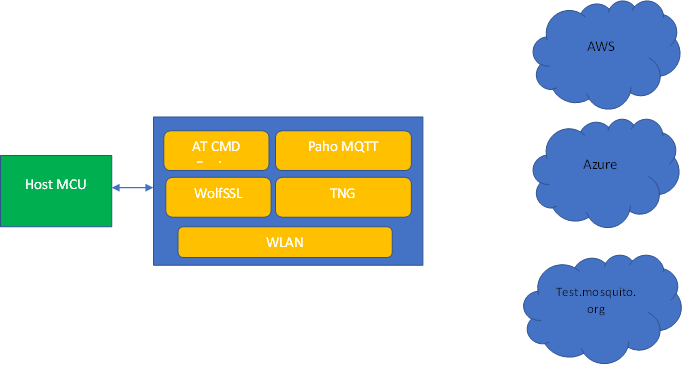
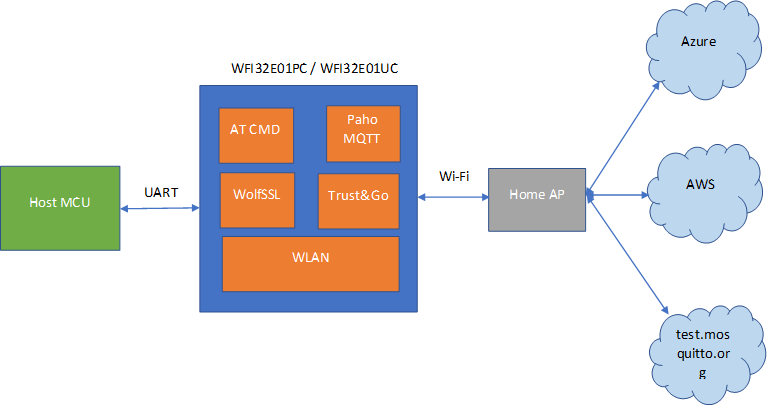
Updated the README.md

diff --git a/README.md b/README.md
@@ -1,4 +1,4 @@
-# Getting Started Guide: UART to Any Cloud Solution for Microchip PIC32 WFI32E Curiosity/ WFI32E IOT Board.
+# Getting Started Guide: UART to Any Cloud Solution for Microchip PIC32MZ-W1 Curiosity/ WFI32E IOT Board.
 
 Devices: **| PIC32MZ-W1 | WFI32 | Trust\&Go (ECC608) |**
 
@@ -14,23 +14,24 @@ For additional Microchip repos, see: https://github.com/Microchip-MPLAB-Harmony
 Checkout the [Technical support](https://microchipsupport.force.com/s/) portal to access our knowledge base, community forums or submit support ticket requests. </br></br>
 
 
-This page describes the UART to Any Cloud Solution for the PIC32 WFI32E Curiosity/ WFI32E IOT board.
+Client are often challenged by fast and easy onboarding of Wifi product and to a given cloud. Microchip aims to make all these steps easy for the customer. This Solution allows easy connectivity to AWS, Azure and test.mosquitto.org with PIC32MZ-W1 Curiosity/ WFI32E IOT board, a powerfull MCU enabling the customer to create smart, connected and secure IoT solutions (Please visit [www.microchip.com/wfi32](www.microchip.com/wfi32) for more information including application notes, certifications, etc). Examples are provided in the github for PIC32MZ-W1 with Terminal over UART which can easily be used by replacing the terminal with 8/16/32-bit MCUs.
 
+This page describes the UART to Any Cloud Solution for the PIC32MZ-W1 Curiosity/ WFI32E IOT board.
 
 ## Features
-1. Support of AT CMDs for configuring the Board via UART
+1. Easy to learn ASCII AT commands for adding Wi-Fi and Cloud connectivity to any processor
 
 2. Mutual authentication supported with AWS and Azure
 
 3. Server authentication supported for test.mosquitto.org
 
-4. Full [Trust\&Go](https://www.microchip.com/design-centers/security-ics/trust-platform/trust-go) (TNG) and security handling inside module, so very easy implementation on host
+4. Designed for WFI3E01PC and WFI32E01UC modules with integrated [Trust\&Go](https://www.microchip.com/design-centers/security-ics/trust-platform/trust-go) (TNG)
 
 5. Single pre-built hex file supports all features for majority of use cases. No need to recompile image for different cloud vendors (single image supports connectivity with AWS / Azure / test.mosquitto.org)
 
 6. Complete source to enable customization when required
 
-7. Supports MQTT, Socket programming(TCP/ UDP), SNTP, TLS, ICMP, IGMP, DNS, DHCP
+7. Supports MQTT, Socket programming(TCP/ UDP), SNTP, TLS (v1.3/ v1.2), ICMP, IGMP, DNS, DHCP
 
 8. Features like OTA, Wi-Fi Provisioning, Low Power, Trust Flex, IPv6, mDNS planned for future releases.
 
@@ -47,31 +48,43 @@ This page describes the UART to Any Cloud Solution for the PIC32 WFI32E Curiosit
 - [MPLAB XC32](https://www.microchip.com/en-us/development-tools-tools-and-software/mplab-xc-compilers) (v3.01 or later)
 - [MPLAB Harmony 3](https://www.microchip.com/en-us/development-tools-tools-and-software/embedded-software-center/mplab-harmony-v3)
 
-	- Note: The project was developed and tested using the MPLAB X v6.0, and MPLAB XC32 v3.01
+	- Note: The project was developed and tested using the MPLAB X v6.0, and MPLAB XC32 v3.01. Also, the above tools are not required when the solution’s pre-built hex file is used.
 
-## Application block diagram
+## Solution block diagram
 
 <p align="center">
 <img src="images/DemoBlock.png" width=720/>
 </p>
 
-## Application Overview
+## Solution Overview
 
-The Application code is written as a FreeRTOS based MPLAB Harmony3 application that leverages the system service-based architecture of PIC32MZ W1. The Solution can connect to any of the three Clouds- AWS, Azure or test.mosquitto.org without the need for recompiling of the image.
+The Solution code is written as a FreeRTOS based MPLAB Harmony3 solution that leverages the system service-based architecture of PIC32MZ W1. The Solution can connect to any of the three Clouds- AWS, Azure or test.mosquitto.org without the need for recompiling of the image.
+
+
+## Re-Flashing the device
+
+In case you want to re-flash the device, perform the following steps:
+
+1.	Download and install [MPLABX Integrated Programming Environment](https://www.microchip.com/mplab/mplab-integrated-programming-environment)
+2.	Connect the power source selection jumper (J202) shunt in ‘PKOB-VIN’ position
+3.	Connect the Curiosity Board’s debug USB (J302) to your PC.
+4.	Open MPLABX IPE and select ‘PIC32MZ1025W104132’ device and ‘PKOB’ tool.
+5.	Download the latest FW image (hex file) from the [releases](https://github.com/MicrochipTech/PIC32MZW1_AnyCloud/releases/latest) tab and load it into the IPE ‘hex file’ section.
+6.	Click on the ‘connect’ and then the ‘program‘ buttons in the IPE and wait for device programming to complete.
 
 
 
-## Running the Solution
+## Evaluating the Solution
 
 Perform the following steps:
 
-1.  Connect the Curiosity Board to your PC
+1.  Connect the PIC32MZ-W1 Curiosity/ WFI32E IOT board to your PC
 
 2.  The device enumerates as a mass storage device (**_MSD_**). This feature is currently used for reading the device certificate which is needed for registering with the cloud vendor. 
 
     **_Note:_** This feature will be removed when AT Command support for reading the device certificate is introduced.
 
-3. All the configurations on the device will be done using AT Cmds via the UART. The details regarding the supported AT CMDs can be found in the document [ATCommandReference.docx](https://github.com/MicrochipTech/PIC32MZW1_AnyCloud/blob/main/doc/ATCommandReference.docx) in the "doc" folder
+3. All the configurations on the device will be done using AT Cmds via the UART. The details regarding the supported AT CMDs can be found in the document [ATCommandReference.pdf](https://github.com/MicrochipTech/PIC32MZW1_AnyCloud/blob/main/doc/ATCommandReference.pdf) in the "doc" folder
 
 4. Configure the home AP credentials using the AT Cmds
     
@@ -114,18 +127,7 @@ Perform the following steps:
 
 ## Secure Provisioning & Transport Layer Security
 
-The PIC32 WFI32E Curiosity Boards kits are shipped with the WFI32 module variants that include an on-board [Trust\&Go](https://www.microchip.com/design-centers/security-ics/trust-platform/trust-go) secure element. Since [Trust\&Go](https://www.microchip.com/design-centers/security-ics/trust-platform/trust-go) devices are pre-provisioned, the firmware can utilise the on-chip certificate to securely authenticate with AWS IoT Core/ Azure IoT Hub.
+The PIC32MZ-W1 Curiosity Boards kits are shipped with the WFI32 module variants that include an on-board [Trust\&Go](https://www.microchip.com/design-centers/security-ics/trust-platform/trust-go) secure element. Since [Trust\&Go](https://www.microchip.com/design-centers/security-ics/trust-platform/trust-go) devices are pre-provisioned, the customer does not need to programe the device certificate for each of his devices and the firmware can utilise the on-chip certificate to securely authenticate with AWS IoT Core/ Azure IoT Hub.
 
-
-## Re-Flashing the device
-
-In case you want to re-flash the device, perform the following steps:
-
-1.	Download and install [MPLABX Integrated Programming Environment](https://www.microchip.com/mplab/mplab-integrated-programming-environment)
-2.	Connect the power source selection jumper (J202) shunt in ‘PKOB-VIN’ position
-3.	Connect the Curiosity Board’s debug USB (J302) to your PC.
-4.	Open MPLABX IPE and select ‘PIC32MZ1025W104132’ device and ‘PKOB’ tool.
-5.	Download the latest FW image (hex file) from the [releases](https://github.com/MicrochipTech/PIC32MZW1_AnyCloud/releases/latest) tab and load it into the IPE ‘hex file’ section.
-6.	Click on the ‘connect’ and then the ‘program‘ buttons in the IPE and wait for device programming to complete.
 
 
